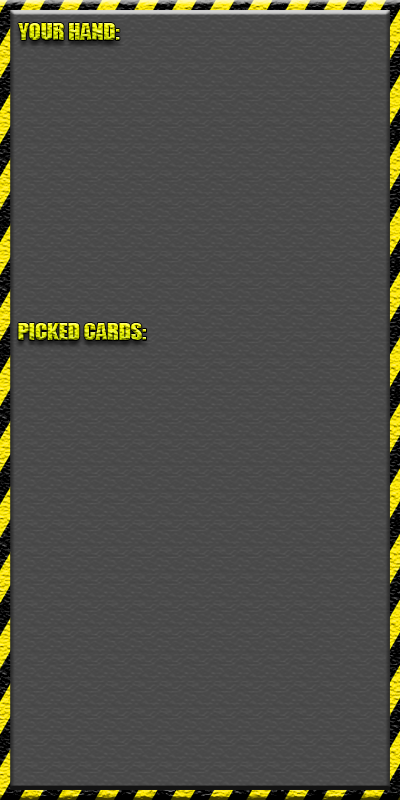
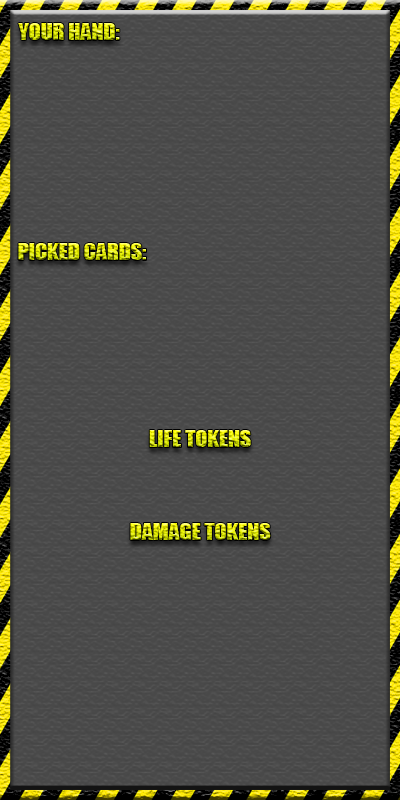
added design for damagetokens and lifetokens

diff --git a/src/main/java/inf112/skeleton/app/screens/CardsMenu.java b/src/main/java/inf112/skeleton/app/screens/CardsMenu.java
@@ -23,6 +23,10 @@ public class CardsMenu {
     public static BitmapFont font;
     private final int scaleCardInt = 75;
     private final int buttonStart = 575;
+    private final Texture damageTray;
+    private final Texture lifeTray;
+    private final Texture damageToken;
+    private final Texture lifeToken;
 
     public CardsMenu(RoboRallyGame game){
         this.game = game;
@@ -30,6 +34,11 @@ public class CardsMenu {
         cardButtonsPicked = new ArrayList<>();
         cardButtonRemove = new ArrayList<>();
         cardTextures = new HashMap<>();
+        damageTray = new Texture("CardsMenu/damageTray.png");
+        lifeTray = new Texture("CardsMenu/lifeTray.png");
+
+        damageToken = new Texture("CardsMenu/damageToken.png");
+        lifeToken = new Texture("CardsMenu/lifeToken.png");
 
 
         File dir = new File("./assets/Cards");
@@ -94,7 +103,7 @@ public class CardsMenu {
                 for (Card card : GameScreen.localPlayer.selectableCards) {
                     if (button.getInactive().toString().equals("Cards/" + card.getInactivePath()) && cardButtonsPicked.size() < 5) {
                             cardButtonsPicked.add(new Button(button.getActive(), button.getInactive(),
-                                        buttonWidth, buttonHeight, (buttonY < 600 ? buttonY - 200  :  buttonY - 300 ),
+                                        buttonWidth, buttonHeight, (buttonY < 600 ? buttonY - 150  :  buttonY - 250 ),
                                     GameScreen.hud.buttonStart + GameScreen.hud.scaleCardInt + (GameScreen.hud.scaleCardInt * cardButtonsPicked.size())));
                                 cardButtonRemove.add(button);
                                 GameScreen.localPlayer.chooseCard(card);
@@ -113,6 +122,19 @@ public class CardsMenu {
         game.batch.draw(cardMenuBackground,600,0);
         resetButton.buttonHover(game);
         executeButton.buttonHover(game);
+
+        // Render damage tokens
+        game.batch.draw(damageTray, 625, 200, 350, 50);
+        for (int i = 0; i < GameScreen.localPlayer.getDamageTokens(); i++){
+            game.batch.draw(damageToken, 643+(32*i), 210, 29, 29);
+        }
+
+        // Render life tokens
+        game.batch.draw(lifeTray, 735, 290, 130, 50);
+        for (int i = 0; i < GameScreen.localPlayer.getLifeTokens(); i++){
+            game.batch.draw(lifeToken, 753+(33*i), 300, 29, 29);
+        }
+
         for (Button button: cardButtons){
             button.buttonHover(game);
         }

diff --git a/src/main/java/inf112/skeleton/app/Player.java b/src/main/java/inf112/skeleton/app/Player.java
@@ -374,4 +374,13 @@ public class Player {
     public Vector2 getPosition() {
         return position;
     }
+
+    public int getLifeTokens() {
+        return lifeTokens;
+    }
+
+    public int getDamageTokens() {
+        return damageTokens;
+    }
+
 }
